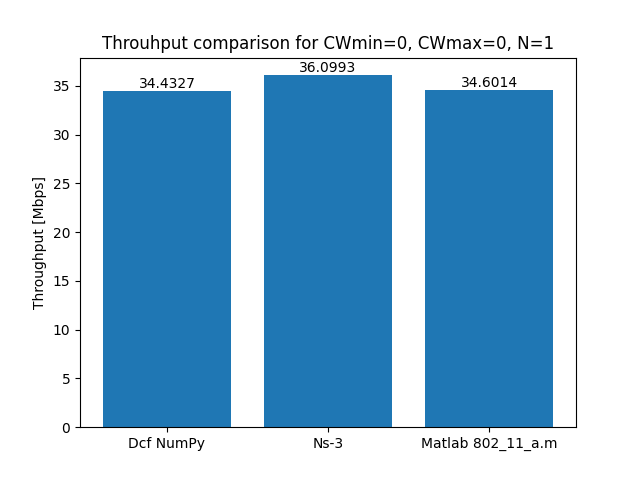
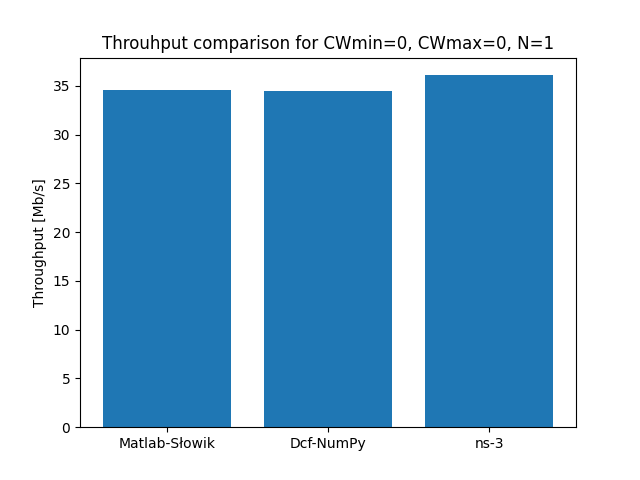
adds editorial corrections to thr comparison graph

diff --git a/validate_thr.py b/validate_thr.py
@@ -28,24 +28,24 @@ ns3_thr = float(results[3])
 # matlab IEEE_802_11a.m simulator
 matlab_thr = 34.601371204701266
 
-results = (dcf_numpy_thr, ns3_thr, matlab_thr)
+results = (matlab_thr, dcf_numpy_thr, ns3_thr)
 
 # throughput bar graph
 y_pos = np.arange(len(results))
-labels = ('Dcf NumPy', 'Ns-3', 'Matlab 802_11_a.m')
+labels = ('Matlab-Słowik', 'Dcf-NumPy', 'ns-3')
 
 fig, ax = plt.subplots()
 
 rects = plt.bar(y_pos, results, align='center')
 plt.xticks(y_pos, labels)
-plt.ylabel('Throughput [Mbps]')
+plt.ylabel('Throughput [Mb/s]')
 plt.title(f'Throuhput comparison for CWmin={cw_min}, CWmax={cw_max}, N={N}')
 
 # dispalying values for each bar
-for rect, value in zip(rects, results):
-    height = rect.get_height()
-    ax.text(rect.get_x() + rect.get_width()/2., height,
-            '%.4f' % value,
-            ha='center', va='bottom')
+#for rect, value in zip(rects, results):
+#    height = rect.get_height()
+#    ax.text(rect.get_x() + rect.get_width()/2., height,
+#            '%.4f' % value,
+#            ha='center', va='bottom')
 
 plt.savefig('results/graphs/thr_comparision.png')
